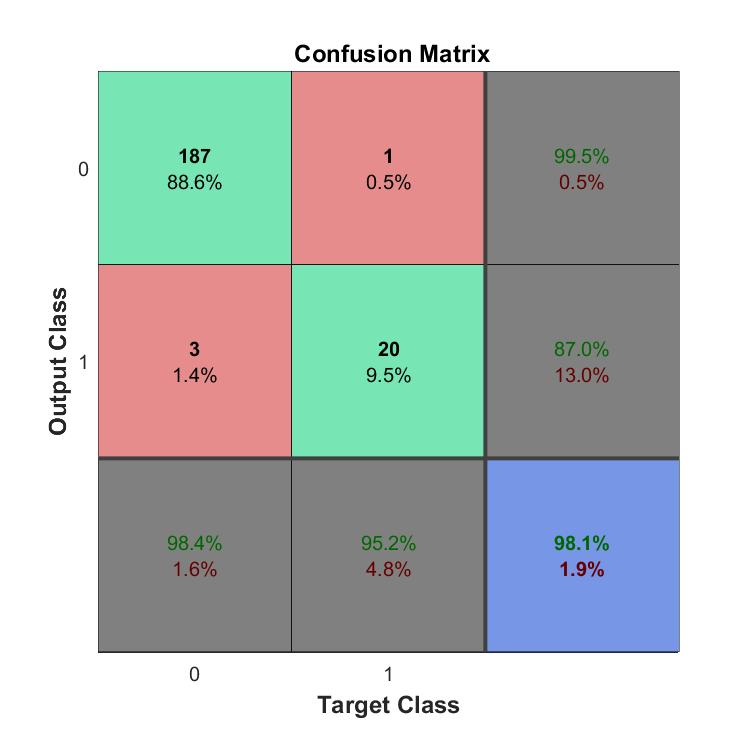
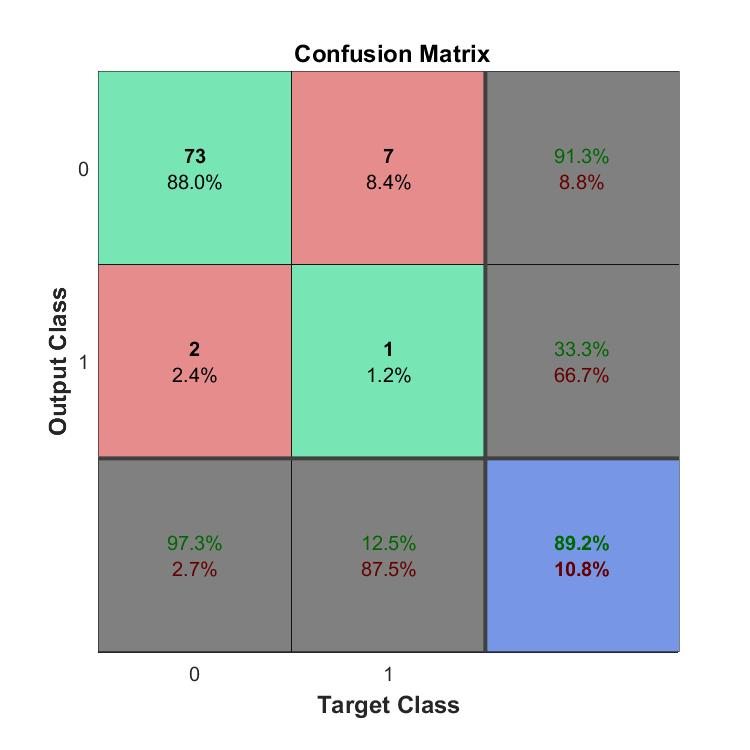
Add more plots

diff --git a/ModelEvalBinary.m b/ModelEvalBinary.m
@@ -65,14 +65,14 @@ for j = 1:10
         
         y_test2(y_test2 ~= classNames(i)) = 0; % Create binary classes for each classifier
         y_test2(y_test2 == classNames(i)) = 1;
-        [acc,precision,recall, f1score] = SVM(X_train2,y_train_2,X_test2,y_test2, i);
-        svm_data = [ svm_data ; [user_idx ,actions(i) ,acc,precision,recall, f1score]];
+%         [acc,precision,recall, f1score] = SVM(X_train2,y_train_2,X_test2,y_test2, i);
+%         svm_data = [ svm_data ; [user_idx ,actions(i) ,acc,precision,recall, f1score]];
 
-        [acc,precision,recall, f1score] = NNet(X_train2, X_test2 ,y_train_2, y_test2);
+        [acc,precision,recall, f1score] = NNet(X_train2, X_test2 ,y_train_2, y_test2, actions(i));
         nn_data = [ nn_data ; [user_idx ,actions(i) ,acc,precision,recall, f1score]];
 
-        [acc,precision,recall, f1score] = DecisionTree(X_train2,y_train_2,X_test2,y_test2);
-        dt_data = [ dt_data ; [user_idx ,actions(i) ,acc,precision,recall, f1score]];
+%         [acc,precision,recall, f1score] = DecisionTree(X_train2,y_train_2,X_test2,y_test2);
+%         dt_data = [ dt_data ; [user_idx ,actions(i) ,acc,precision,recall, f1score]];
     end
 end
 

diff --git a/user_user_comparison.m b/user_user_comparison.m
@@ -1,12 +1,12 @@
-svm_metrics = table2array(readtable('Accuracy/SVM_Metrics.csv'));
-nn_metrics = table2array(readtable('Accuracy/NN_Metrics.csv'));
-dt_metrics = table2array(readtable('Accuracy/DT_Metrics.csv'));
+svm_metrics = table2array(readtable('Accuracy/SVM_Metrics_undersampled.csv'));
+nn_metrics = table2array(readtable('Accuracy/SVM_Metrics_undersampled.csv'));
+dt_metrics = table2array(readtable('Accuracy/SVM_Metrics_undersampled.csv'));
 
 actions = {'About', 'And', 'Can', 'Cop', 'Deaf', 'Decide', 'Father', 'Find', 'Goout', 'Hearing'};
 
 users = {'1', '2', '3', '4', '5', '7', '8', '9', '11', '12'};
 for a = 1: length(actions)
-action = 'About';
+action = cell2mat(actions(a));
 f1_score_bar_data = [];
 precision_bar_data = [];
 recall_bar_data = [];

diff --git a/action_action_comparison.m b/action_action_comparison.m
@@ -1,13 +1,13 @@
-svm_metrics = table2array(readtable('Accuracy/SVM_Metrics.csv'));
-nn_metrics = table2array(readtable('Accuracy/NN_Metrics.csv'));
-dt_metrics = table2array(readtable('Accuracy/DT_Metrics.csv'));
+svm_metrics = table2array(readtable('Accuracy/SVM_Metrics_undersampled.csv'));
+nn_metrics = table2array(readtable('Accuracy/NN_Metrics_undersampled.csv'));
+dt_metrics = table2array(readtable('Accuracy/DT_Metrics_undersampled.csv'));
 
 actions = {'About', 'And', 'Can', 'Cop', 'Deaf', 'Decide', 'Father', 'Find', 'Goout', 'Hearing'};
 
 
-users = {'1', '2'};
+users = {'1', '2', '4'};
 
-for u = 1: 2
+for u = 1: length(users)
 user = cell2mat(users(u));
 f1_score_bar_data = [];
 precision_bar_data = [];

diff --git a/NNet.m b/NNet.m
@@ -1,4 +1,4 @@
-function [acc,precision,recall, f1score] = NNet(nn_X_train, nn_X_test,nn_Y_train, nn_Y_test)
+function [acc,precision,recall, f1score] = NNet(nn_X_train, nn_X_test,nn_Y_train, nn_Y_test, label)
 
 x = nn_X_train';
 t = nn_Y_train';
@@ -58,6 +58,10 @@ tp = cm(1,1);
 fn = cm(1,2);
 fp = cm(2,1);
 tn = cm(2,2); 
+
+if tn < 3
+    figure, plotconfusion(nn_Y_test',y)
+end
 
 sensitivity = tp /( tp + fn );
 specificity = tn /( fp + tn );
